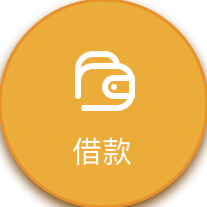
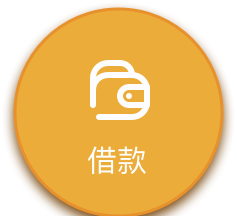
统一image的获取，一些细微调整

Changed region(s): [[0.0, 0.0, 1.0, 1.0], [0.3478, 0.2319, 0.6667, 0.5797], [0.3478, 0.6667, 0.6377, 0.8116]]

diff --git a/src/pages/account/MeScreen.js b/src/pages/account/MeScreen.js
@@ -18,17 +18,17 @@ import {
   ImageBackground,
   StatusBar,
 } from 'react-native'
-import BaseScreen from '../components/BaseScreen'
-import { color, size, layout, style } from '../common/MyStyle'
-import { event, localStore } from '../common/Constants'
-import LoginManager from '../common/LoginManager'
-import { isDebug } from '../utils/MyDebugUtils'
-import SettingItem from '../components/SettingItem'
-import SettingItemBigPic from '../components/SettingItemBigPic'
-import SettingItemTextTopDown from '../components/SettingItemTextTopDown'
+import BaseScreen from '../../components/BaseScreen'
+import { color, size, layout, style } from '../../common/MyStyle'
+import { event, localStore, images } from '../../common/Constants'
+import LoginManager from '../../common/LoginManager'
+import { isDebug } from '../../utils/MyDebugUtils'
+import SettingItem from '../../components/SettingItem'
+import SettingItemBigPic from '../../components/SettingItemBigPic'
+import SettingItemTextTopDown from '../../components/SettingItemTextTopDown'
 import { TouchableOpacity } from 'react-native-gesture-handler'
-import { showToast } from '../utils/MyToastUtils'
-import MyStoreManager from '../common/MyStoreManager'
+import { showToast } from '../../utils/MyToastUtils'
+import MyStoreManager from '../../common/MyStoreManager'
 import { Label, Button } from 'native-base'
 
 export default class MeScreen extends BaseScreen {
@@ -60,12 +60,12 @@ export default class MeScreen extends BaseScreen {
             }}
           >
             <View style={{ flex: 1 }}>
-              <Image style={{ width: 23, height: 22 }} source={require('../images/png/logo.png')} />
+              <Image style={{ width: 23, height: 22 }} source={images.logo} />
             </View>
           </View>
           {/* 顶部背景 */}
           <View style={{ display: 'flex', alignItems: 'center' }}>
-            <Image style={{ width: 354, height: 268, position: 'relative', top: -40 }} source={require('../images/png/personal_pic.png')} />
+            <Image style={{ width: 354, height: 268, position: 'relative', top: -40 }} source={images.personal_pic} />
             <View
               style={{
                 height: '100%',
@@ -85,7 +85,7 @@ export default class MeScreen extends BaseScreen {
           {/* 个人界面--列表 */}
           <View style={[styles.settingitem]}>
             <SettingItem
-              imageUrl={require('../images/png/my_info.png')}
+              imageUrl={images.my_info}
               text={'我的消息'}
               onPress={() => {
                 if (LoginManager.isLogin()) {
@@ -96,7 +96,7 @@ export default class MeScreen extends BaseScreen {
               }}
             />
             <SettingItem
-              imageUrl={require('../images/png/need_borrow.png')}
+              imageUrl={images.need_borrow}
               text={'我要借钱'}
               onPress={() => {
                 if (LoginManager.isLogin()) {
@@ -106,7 +106,7 @@ export default class MeScreen extends BaseScreen {
               }}
             />
             <SettingItem
-              imageUrl={require('../images/png/my_card.png')}
+              imageUrl={images.my_card}
               text={'卡片管家'}
               onPress={() => {
                 if (LoginManager.isLogin()) {
@@ -117,7 +117,7 @@ export default class MeScreen extends BaseScreen {
               }}
             />
             <SettingItem
-              imageUrl={require('../images/png/about_us.png')}
+              imageUrl={images.about_us}
               text={'关于我们'}
               onPress={() => {
                 if (LoginManager.isLogin()) {

diff --git a/App.js b/App.js
@@ -1,7 +1,7 @@
 import React from 'react'
 import { createStackNavigator, createAppContainer, createBottomTabNavigator, createSwitchNavigator } from 'react-navigation' // Version can be specified in package.json
 import HomeScreen from './src/pages/home/HomeScreen'
-import MeScreen from './src/pages/MeScreen'
+import MeScreen from './src/pages/account/MeScreen'
 import SampleScreen from './src/template/SampleScreen'
 import LoginScreen from './src/pages/account/LoginScreen'
 import AboutScreen from './src/pages/account/AboutScreen'
@@ -13,7 +13,6 @@ import { isDebug } from './src/utils/MyDebugUtils'
 import SplashScreen from 'react-native-splash-screen'
 import MyWebView from './src/pages/MyWebView'
 import NetworkManager from './src/common/NetworkManager'
-import SettingScreen from './src/pages/SettingScreen'
 import BorrowScreen from './src/pages/borrow/BorrowScreen'
 import MyMsgScreen from './src/pages/msg/MyMsgScreen'
 import MsgDetailScreen from './src/pages/msg/MsgDetailScreen'
@@ -44,7 +43,6 @@ const commonPages = {
   About: AboutScreen,
   Login: LoginScreen,
   Sample: SampleScreen,
-  Setting: SettingScreen,
   MyMsg: MyMsgScreen,
   PermissionRequest: PermissionRequestScreen,
   BorrowConfirm: BorrowConfirmScreen,

diff --git a/src/pages/account/LoginScreen.js b/src/pages/account/LoginScreen.js
@@ -27,9 +27,8 @@ export default class LoginScreen extends BaseScreen {
   constructor(props) {
     super(props)
     this.state = {
-      phone: '',
-      password: '',
-      phoneCode: '',
+      phone: '18963985141',
+      phoneCode: '123456',
     }
   }
 
@@ -97,7 +96,7 @@ export default class LoginScreen extends BaseScreen {
           <ImageBackground source={require('../../images/login_background.png')} style={{ width: 328, height: 49, marginTop: 32 }}>
             {/* <Item picker> */}
             <TextInput
-              style={{ flex: 1, height: 50, paddingLeft: 36, color:'#ffffff' }}
+              style={{ flex: 1, height: 50, paddingLeft: 36, color: '#ffffff' }}
               placeholder={'请输入验证码'}
               placeholderTextColor={'#fdfdfd'}
               value={this.state.phoneCode}

diff --git a/src/common/Constants.js b/src/common/Constants.js
@@ -1,4 +1,17 @@
 /**
+ * 存放所有图片资源
+ */
+export const images = {
+  logo: require('../images/png/logo.png'),
+  homeSelect: require('../images/tabbar/home-select.png'),
+  homeUnSelect: require('../images/tabbar/home-unselect.png'),
+  personal_pic: require('../images/png/personal_pic.png'),
+  my_info: require('../images/png/my_info.png'),
+  need_borrow: require('../images/png/need_borrow.png'),
+  my_card: require('../images/png/my_card.png'),
+  about_us: require('../images/png/about_us.png'),
+}
+/**
  * 定义  DeviceEventEmitter  事件名
  */
 export const event = {

diff --git a/README.md b/README.md
@@ -10,6 +10,7 @@ waiting
 
 # 一些约定&规范（重要）
 
+* 图片统一从Constants里面取
 * 不要考虑状态栏，标题栏等通用组件。
 * 提交之前先格式化
 * 提交之前必须先pull，如有冲突先暂存代码再pull，然后恢复暂存解决冲突，然后再提交。
